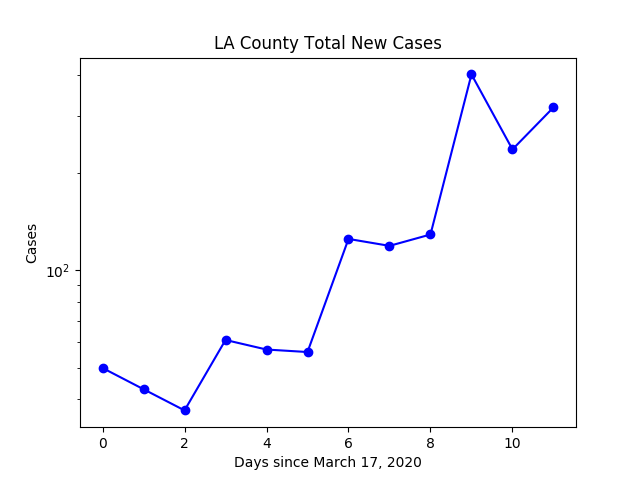
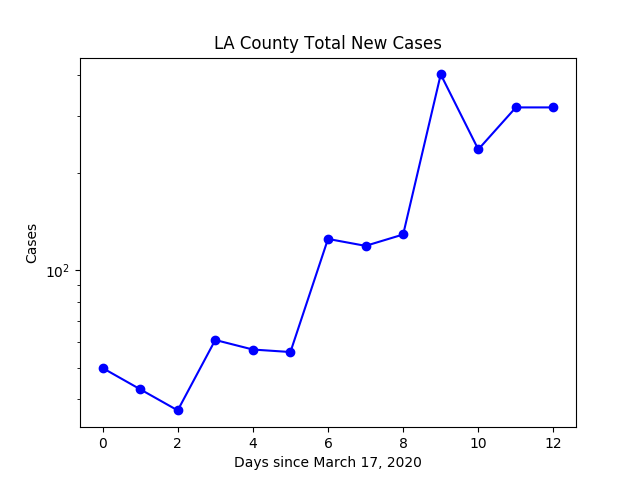
plots updated with new data

diff --git a/scripts/fetch_and_store.py b/scripts/fetch_and_store.py
@@ -40,7 +40,8 @@ def remove_element(input_string):
         item_to_remove=None
         for l in range(0,len(value)):
             #print(data_array[key][l])
-            if str(data_array[key][l][0]) == input_string:
+            if str(data_array[key][l][0].strip()) == input_string:
+                print(data_array[key][l][0])
                 item_to_remove=l
 
         #print(item_to_remove)
@@ -146,12 +147,13 @@ def get_data(urlcomp):
 
 
 #execution starts here
-for press_release_id in range(2268,2288):
+for press_release_id in range(2268,2289):
     urlcomp="http://publichealth.lacounty.gov/phcommon/public/media/mediapubhpdetail.cfm?prid="+str(press_release_id)
     get_data(urlcomp)
 
 #filter to remove duplicate entries from the list based on the string
-remove_element("Pasadena ")
+remove_element("Pasadena")
+remove_element("Los Angeles")
 
 get_count()
 #print(data_array[21])
@@ -161,7 +163,8 @@ print(lacounty_total_case_count)
 write_json_to_file("lacounty_total_case_count.json",lacounty_total_case_count)   
 
 #filter to remove duplicate entries from the list based on the string
-remove_element("Los Angeles County (excl. LB and Pas) ")
+remove_element("Los Angeles County (excl. LB and Pas)")
+remove_element("Los Angeles")
 for key,value in data_array.items():
     del(data_array[key][0])
     print(data_array[key][0])
